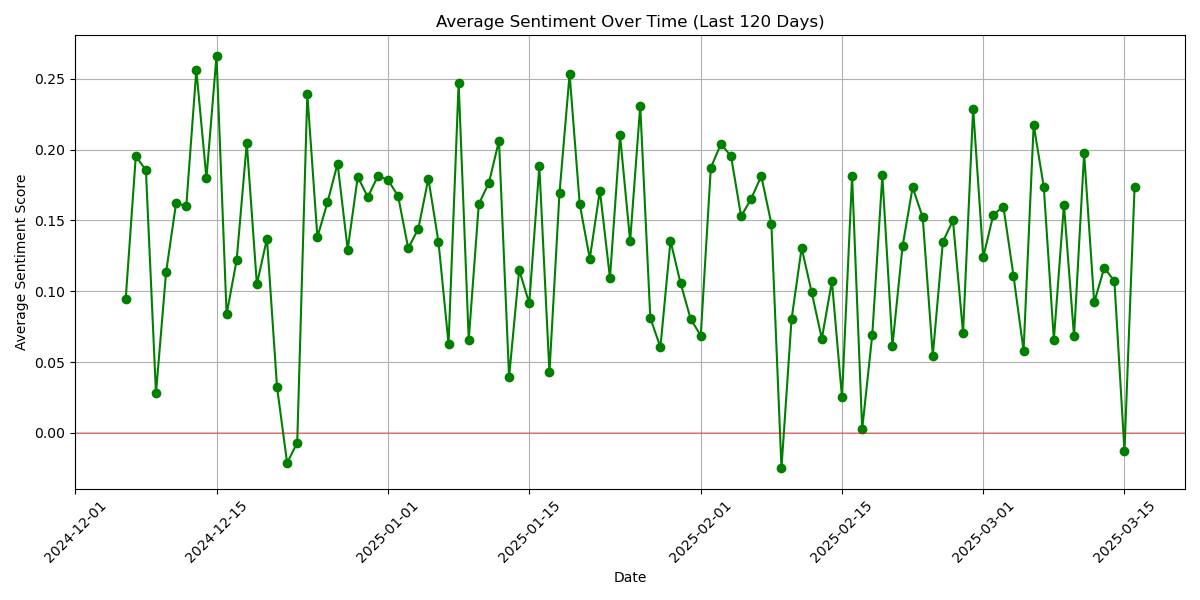
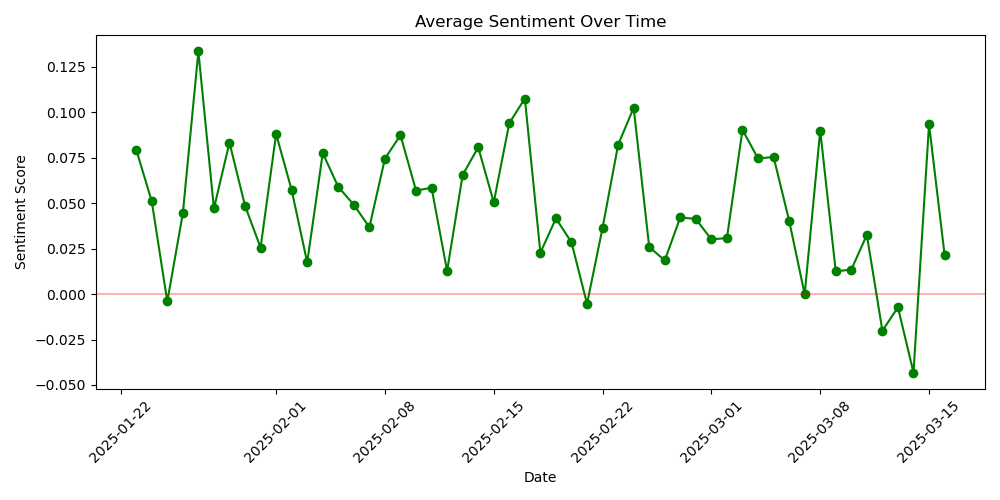
committed

diff --git a/streamlit_app/reddit_analysis.py b/streamlit_app/reddit_analysis.py
@@ -1,0 +1,361 @@
+import pandas as pd
+import numpy as np
+import pymysql
+from db_config import MYSQL_HOST, MYSQL_USER, MYSQL_PASSWORD
+import matplotlib.pyplot as plt
+from datetime import datetime, timedelta
+from textblob import TextBlob
+import nltk
+from nltk.corpus import stopwords
+from nltk.tokenize import word_tokenize
+from collections import Counter
+from wordcloud import WordCloud
+import streamlit as st
+import requests
+import os
+from dotenv import load_dotenv
+import praw
+import pickle
+
+# Set NLTK data path and download resources
+nltk_data_path = os.path.join(os.getcwd(), "nltk_data")
+os.makedirs(nltk_data_path, exist_ok=True)
+nltk.data.path.append(nltk_data_path)
+try:
+    nltk.download('punkt', download_dir=nltk_data_path, quiet=True)
+    nltk.download('stopwords', download_dir=nltk_data_path, quiet=True)
+except Exception as e:
+    st.error(f"Failed to download NLTK resources: {e}")
+
+# Load environment variables
+load_dotenv()
+api_key = os.getenv('API_KEY')
+reddit_client_id = os.getenv('REDDIT_CLIENT_ID')
+reddit_client_secret = os.getenv('REDDIT_CLIENT_SECRET')
+reddit_user_agent = os.getenv('REDDIT_USER_AGENT')
+
+if not all([api_key, reddit_client_id, reddit_client_secret, reddit_user_agent]):
+    st.error("Missing environment variables. Check your .env file.")
+    st.stop()
+
+API_URL = f'https://generativelanguage.googleapis.com/v1beta/models/gemini-1.5-flash:generateContent?key={api_key}'
+
+# Initialize Reddit API client
+try:
+    reddit = praw.Reddit(
+        client_id=reddit_client_id,
+        client_secret=reddit_client_secret,
+        user_agent=reddit_user_agent
+    )
+except Exception as e:
+    st.error(f"Failed to initialize Reddit API client: {e}")
+    st.stop()
+
+# Database connection
+def connect_db(database=None):
+    try:
+        return pymysql.connect(
+            host=MYSQL_HOST,
+            user=MYSQL_USER,
+            password=MYSQL_PASSWORD,
+            database=database if database else None,
+            charset='utf8mb4',
+            cursorclass=pymysql.cursors.DictCursor
+        )
+    except pymysql.MySQLError as e:
+        st.error(f"Database Connection Error: {e}")
+        return None
+
+# Create or use existing subreddit database
+def create_subreddit_db(subreddit):
+    conn = connect_db()
+    if not conn:
+        return False
+    try:
+        cursor = conn.cursor()
+        db_name = f"reddit_{subreddit.replace('/', '_').lower()}"
+        # Check if database exists; create if it doesn’t
+        cursor.execute(f"SHOW DATABASES LIKE '{db_name}'")
+        if not cursor.fetchone():
+            cursor.execute(f"CREATE DATABASE {db_name}")
+        cursor.execute(f"USE {db_name}")
+        cursor.execute("""
+            CREATE TABLE IF NOT EXISTS posts (
+                id VARCHAR(50) PRIMARY KEY,
+                title TEXT,
+                body TEXT,
+                upvotes INT,
+                created_at DATETIME,
+                subreddit VARCHAR(100)
+            )
+        """)
+        conn.commit()
+        return db_name
+    except pymysql.MySQLError as e:
+        st.error(f"Database Creation Error: {e}")
+        return None
+    finally:
+        cursor.close()
+        conn.close()
+
+# Fetch posts from Reddit API with caching
+@st.cache_data(ttl=3600)  # Cache for 1 hour
+def fetch_subreddit_posts(subreddit, days_ago=120):
+    try:
+        sub = reddit.subreddit(subreddit[2:])  # Remove 'r/' prefix
+        posts = []
+        cutoff_time = datetime.now() - timedelta(days=days_ago)
+        for submission in sub.new(limit=500):  # Reduced limit for speed
+            created_time = datetime.fromtimestamp(submission.created_utc)
+            if created_time >= cutoff_time:
+                posts.append({
+                    'id': submission.id,
+                    'title': submission.title,
+                    'body': submission.selftext if submission.selftext else '',
+                    'upvotes': submission.score,
+                    'created_at': created_time,
+                    'subreddit': subreddit
+                })
+            else:
+                break
+        st.info(f"Fetched {len(posts)} posts from {subreddit} within the last {days_ago} days.")
+        return posts
+    except Exception as e:
+        st.error(f"Error fetching posts from Reddit: {e}")
+        return []
+
+# Store posts in the database
+def store_posts(subreddit, posts):
+    db_name = f"reddit_{subreddit.replace('/', '_').lower()}"
+    conn = connect_db(db_name)
+    if not conn:
+        return
+    try:
+        cursor = conn.cursor()
+        for post in posts:
+            cursor.execute("""
+                INSERT IGNORE INTO posts (id, title, body, upvotes, created_at, subreddit)
+                VALUES (%s, %s, %s, %s, %s, %s)
+            """, (post['id'], post['title'], post['body'], post['upvotes'], post['created_at'], post['subreddit']))
+        conn.commit()
+    except pymysql.MySQLError as e:
+        st.error(f"Error storing posts: {e}")
+    finally:
+        cursor.close()
+        conn.close()
+
+# Fetch posts from database with caching
+@st.cache_data
+def fetch_posts_from_db(subreddit, days_ago=120):
+    db_name = f"reddit_{subreddit.replace('/', '_').lower()}"
+    conn = connect_db(db_name)
+    if not conn:
+        return []
+    try:
+        cursor = conn.cursor()
+        query = """
+        SELECT * FROM posts 
+        WHERE created_at >= DATE_SUB(NOW(), INTERVAL %s DAY)
+        ORDER BY created_at DESC
+        """
+        cursor.execute(query, (days_ago,))
+        posts = cursor.fetchall()
+        return posts
+    except pymysql.MySQLError as e:
+        st.error(f"MySQL Error: {e}")
+        return []
+    finally:
+        cursor.close()
+        conn.close()
+
+# Sentiment analysis (optimized with caching)
+@st.cache_data
+def analyze_sentiment_textblob(text):
+    analysis = TextBlob(text)
+    polarity = analysis.sentiment.polarity
+    return {
+        "polarity": polarity,
+        "subjectivity": analysis.sentiment.subjectivity,
+        "sentiment": "positive" if polarity > 0.05 else "negative" if polarity < -0.05 else "neutral"
+    }
+
+# Time series analysis
+@st.cache_data
+def analyze_post_trends(posts):
+    df = pd.DataFrame(posts)
+    df['created_at'] = pd.to_datetime(df['created_at'])
+    df['date'] = df['created_at'].dt.date
+    daily_counts = df.groupby('date').size().reset_index(name='post_count')
+    df['sentiment_score'] = df['body'].apply(lambda x: analyze_sentiment_textblob(x)['polarity'])
+    daily_sentiment = df.groupby('date')['sentiment_score'].mean().reset_index(name='avg_sentiment')
+    return pd.merge(daily_counts, daily_sentiment, on='date')
+
+# Common topics analysis
+@st.cache_data
+def analyze_common_topics(posts, top_n=20):
+    stop_words = set(stopwords.words('english')).union({"like", "just", "feel", "feeling", "really", "i'm", "im", "don't", "dont"})
+    all_words = []
+    for post in posts:
+        text = f"{post['title']} {post['body']}".lower()
+        words = [word for word in word_tokenize(text) if word.isalpha() and word not in stop_words and len(word) > 2]
+        all_words.extend(words)
+    word_counts = Counter(all_words)
+    return word_counts.most_common(top_n), word_counts
+
+# Generate visualizations (optimized with caching)
+@st.cache_data
+def generate_visualizations(posts, trend_data, top_words, word_counts):
+    visualizations = {}
+    plt.style.use('fast')  # Use a faster matplotlib style
+
+    # Post Frequency
+    plt.figure(figsize=(10, 5))
+    plt.plot(trend_data['date'], trend_data['post_count'], marker='o')
+    plt.title('Post Frequency Over Time')
+    plt.xlabel('Date')
+    plt.ylabel('Posts')
+    plt.xticks(rotation=45)
+    plt.tight_layout()
+    plt.savefig('post_frequency.png', dpi=100)  # Lower DPI for speed
+    plt.close()
+    visualizations['Post Frequency'] = 'post_frequency.png'
+
+    # Sentiment Trends
+    plt.figure(figsize=(10, 5))
+    plt.plot(trend_data['date'], trend_data['avg_sentiment'], marker='o', color='green')
+    plt.axhline(y=0, color='r', linestyle='-', alpha=0.3)
+    plt.title('Average Sentiment Over Time')
+    plt.xlabel('Date')
+    plt.ylabel('Sentiment Score')
+    plt.xticks(rotation=45)
+    plt.tight_layout()
+    plt.savefig('sentiment_trends.png', dpi=100)
+    plt.close()
+    visualizations['Sentiment Trends'] = 'sentiment_trends.png'
+
+    # Sentiment Distribution
+    df = pd.DataFrame(posts)
+    df['sentiment'] = df['body'].apply(lambda x: analyze_sentiment_textblob(x)['sentiment'])
+    plt.figure(figsize=(8, 4))
+    sentiment_counts = df['sentiment'].value_counts()
+    colors = {'positive': 'green', 'neutral': 'gray', 'negative': 'red'}
+    sentiment_counts.plot(kind='bar', color=[colors[x] for x in sentiment_counts.index])
+    plt.title('Sentiment Distribution')
+    plt.xlabel('Sentiment')
+    plt.ylabel('Posts')
+    plt.tight_layout()
+    plt.savefig('sentiment_distribution.png', dpi=100)
+    plt.close()
+    visualizations['Sentiment Distribution'] = 'sentiment_distribution.png'
+
+    # Word Frequency
+    plt.figure(figsize=(10, 6))
+    words, counts = zip(*top_words)
+    plt.barh(list(reversed(words)), list(reversed(counts)))
+    plt.title('Top 20 Words')
+    plt.xlabel('Frequency')
+    plt.tight_layout()
+    plt.savefig('word_frequency.png', dpi=100)
+    plt.close()
+    visualizations['Word Frequency'] = 'word_frequency.png'
+
+    # Word Cloud
+    wordcloud = WordCloud(width=800, height=400, background_color='white', max_words=50).generate_from_frequencies(dict(word_counts))
+    plt.figure(figsize=(8, 4))
+    plt.imshow(wordcloud, interpolation='bilinear')
+    plt.axis('off')
+    plt.tight_layout()
+    plt.savefig('wordcloud.png', dpi=100)
+    plt.close()
+    visualizations['Word Cloud'] = 'wordcloud.png'
+
+    return visualizations
+
+# Statistics
+@st.cache_data
+def get_statistics(posts):
+    df = pd.DataFrame(posts)
+    return {
+        'total_posts': len(posts),
+        'avg_upvotes': df['upvotes'].mean(),
+        'sentiment_distribution': df['body'].apply(lambda x: analyze_sentiment_textblob(x)['sentiment']).value_counts().to_dict(),
+        'avg_polarity': df['body'].apply(lambda x: analyze_sentiment_textblob(x)['polarity']).mean(),
+        'avg_subjectivity': df['body'].apply(lambda x: analyze_sentiment_textblob(x)['subjectivity']).mean(),
+        'avg_post_length': df['body'].apply(len).mean()
+    }
+
+# Gemini API response
+def get_gemini_response(user_input, context):
+    headers = {'Content-Type': 'application/json'}
+    prompt = f"Context: {context}\n\nQuestion: {user_input}\n\nAnswer clearly and concisely."
+    data = {"contents": [{"parts": [{"text": prompt}]}]}
+    try:
+        response = requests.post(API_URL, headers=headers, json=data)
+        response.raise_for_status()
+        return response.json()['candidates'][0]['content']['parts'][0]['text']
+    except Exception as e:
+        return f"Error: {e}"
+
+# Streamlit App
+def main():
+    st.title("Subreddit Analysis with Chatbot 🚀")
+    st.write("Analyze subreddit posts over the last 120 days!")
+
+    subreddit_options = ['r/anxiety', 'r/depression', 'r/mentalhealth', 'r/suicide','r/stress','/rIndianStockMarket','r/NSEbets','r/wallstreetbets','r/investing']
+    selected_subreddit = st.selectbox("Select Subreddit", subreddit_options)
+
+    # Only fetch and store if subreddit changes or data isn’t cached
+    if 'current_subreddit' not in st.session_state or st.session_state['current_subreddit'] != selected_subreddit:
+        with st.spinner("Fetching and processing data..."):
+            db_name = create_subreddit_db(selected_subreddit)
+            if db_name:
+                posts = fetch_subreddit_posts(selected_subreddit)
+                if posts:
+                    store_posts(selected_subreddit, posts)
+                st.session_state['current_subreddit'] = selected_subreddit
+                st.cache_data.clear()  # Clear cache only on subreddit change
+
+    posts = fetch_posts_from_db(selected_subreddit)
+    if not posts:
+        st.error(f"No posts found for {selected_subreddit} within the last 120 days.")
+        return
+
+    # Perform analysis with progress feedback
+    with st.spinner("Analyzing data..."):
+        trend_data = analyze_post_trends(posts)
+        top_words, word_counts = analyze_common_topics(posts)
+        visualizations = generate_visualizations(posts, trend_data, top_words, word_counts)
+        stats = get_statistics(posts)
+
+    context_base = (
+        f"Analysis of {stats['total_posts']} posts from {selected_subreddit} (last 120 days):\n"
+        f"- Avg Upvotes: {stats['avg_upvotes']:.2f}\n"
+        f"- Sentiment: {stats['sentiment_distribution']}\n"
+        f"- Avg Polarity: {stats['avg_polarity']:.4f}\n"
+        f"- Top Words: {', '.join([w for w, _ in top_words])}\n"
+    )
+
+    viz_options = list(visualizations.keys())
+    selected_viz = st.selectbox("Select Visualization", viz_options)
+    st.header(selected_viz)
+    st.image(visualizations[selected_viz], caption=f"{selected_viz} for {selected_subreddit}", use_column_width=True)
+
+    viz_context = context_base + f"Current Visualization: {selected_viz}. Shows {selected_viz.lower()} for {selected_subreddit} over 120 days."
+
+    if st.button("💬 Chat about this"):
+        with st.expander("Chat with Gemini", expanded=True):
+            if f"chat_history_{selected_viz}_{selected_subreddit}" not in st.session_state:
+                st.session_state[f"chat_history_{selected_viz}_{selected_subreddit}"] = []
+
+            user_input = st.chat_input(f"Ask about {selected_viz} in {selected_subreddit}")
+            if user_input:
+                st.session_state[f"chat_history_{selected_viz}_{selected_subreddit}"].append({"role": "user", "text": user_input})
+                response = get_gemini_response(user_input, viz_context)
+                st.session_state[f"chat_history_{selected_viz}_{selected_subreddit}"].append({"role": "assistant", "text": response})
+
+            for message in st.session_state[f"chat_history_{selected_viz}_{selected_subreddit}"]:
+                with st.chat_message(message["role"]):
+                    st.write(message["text"])
+
+if __name__ == "__main__":
+    main()
